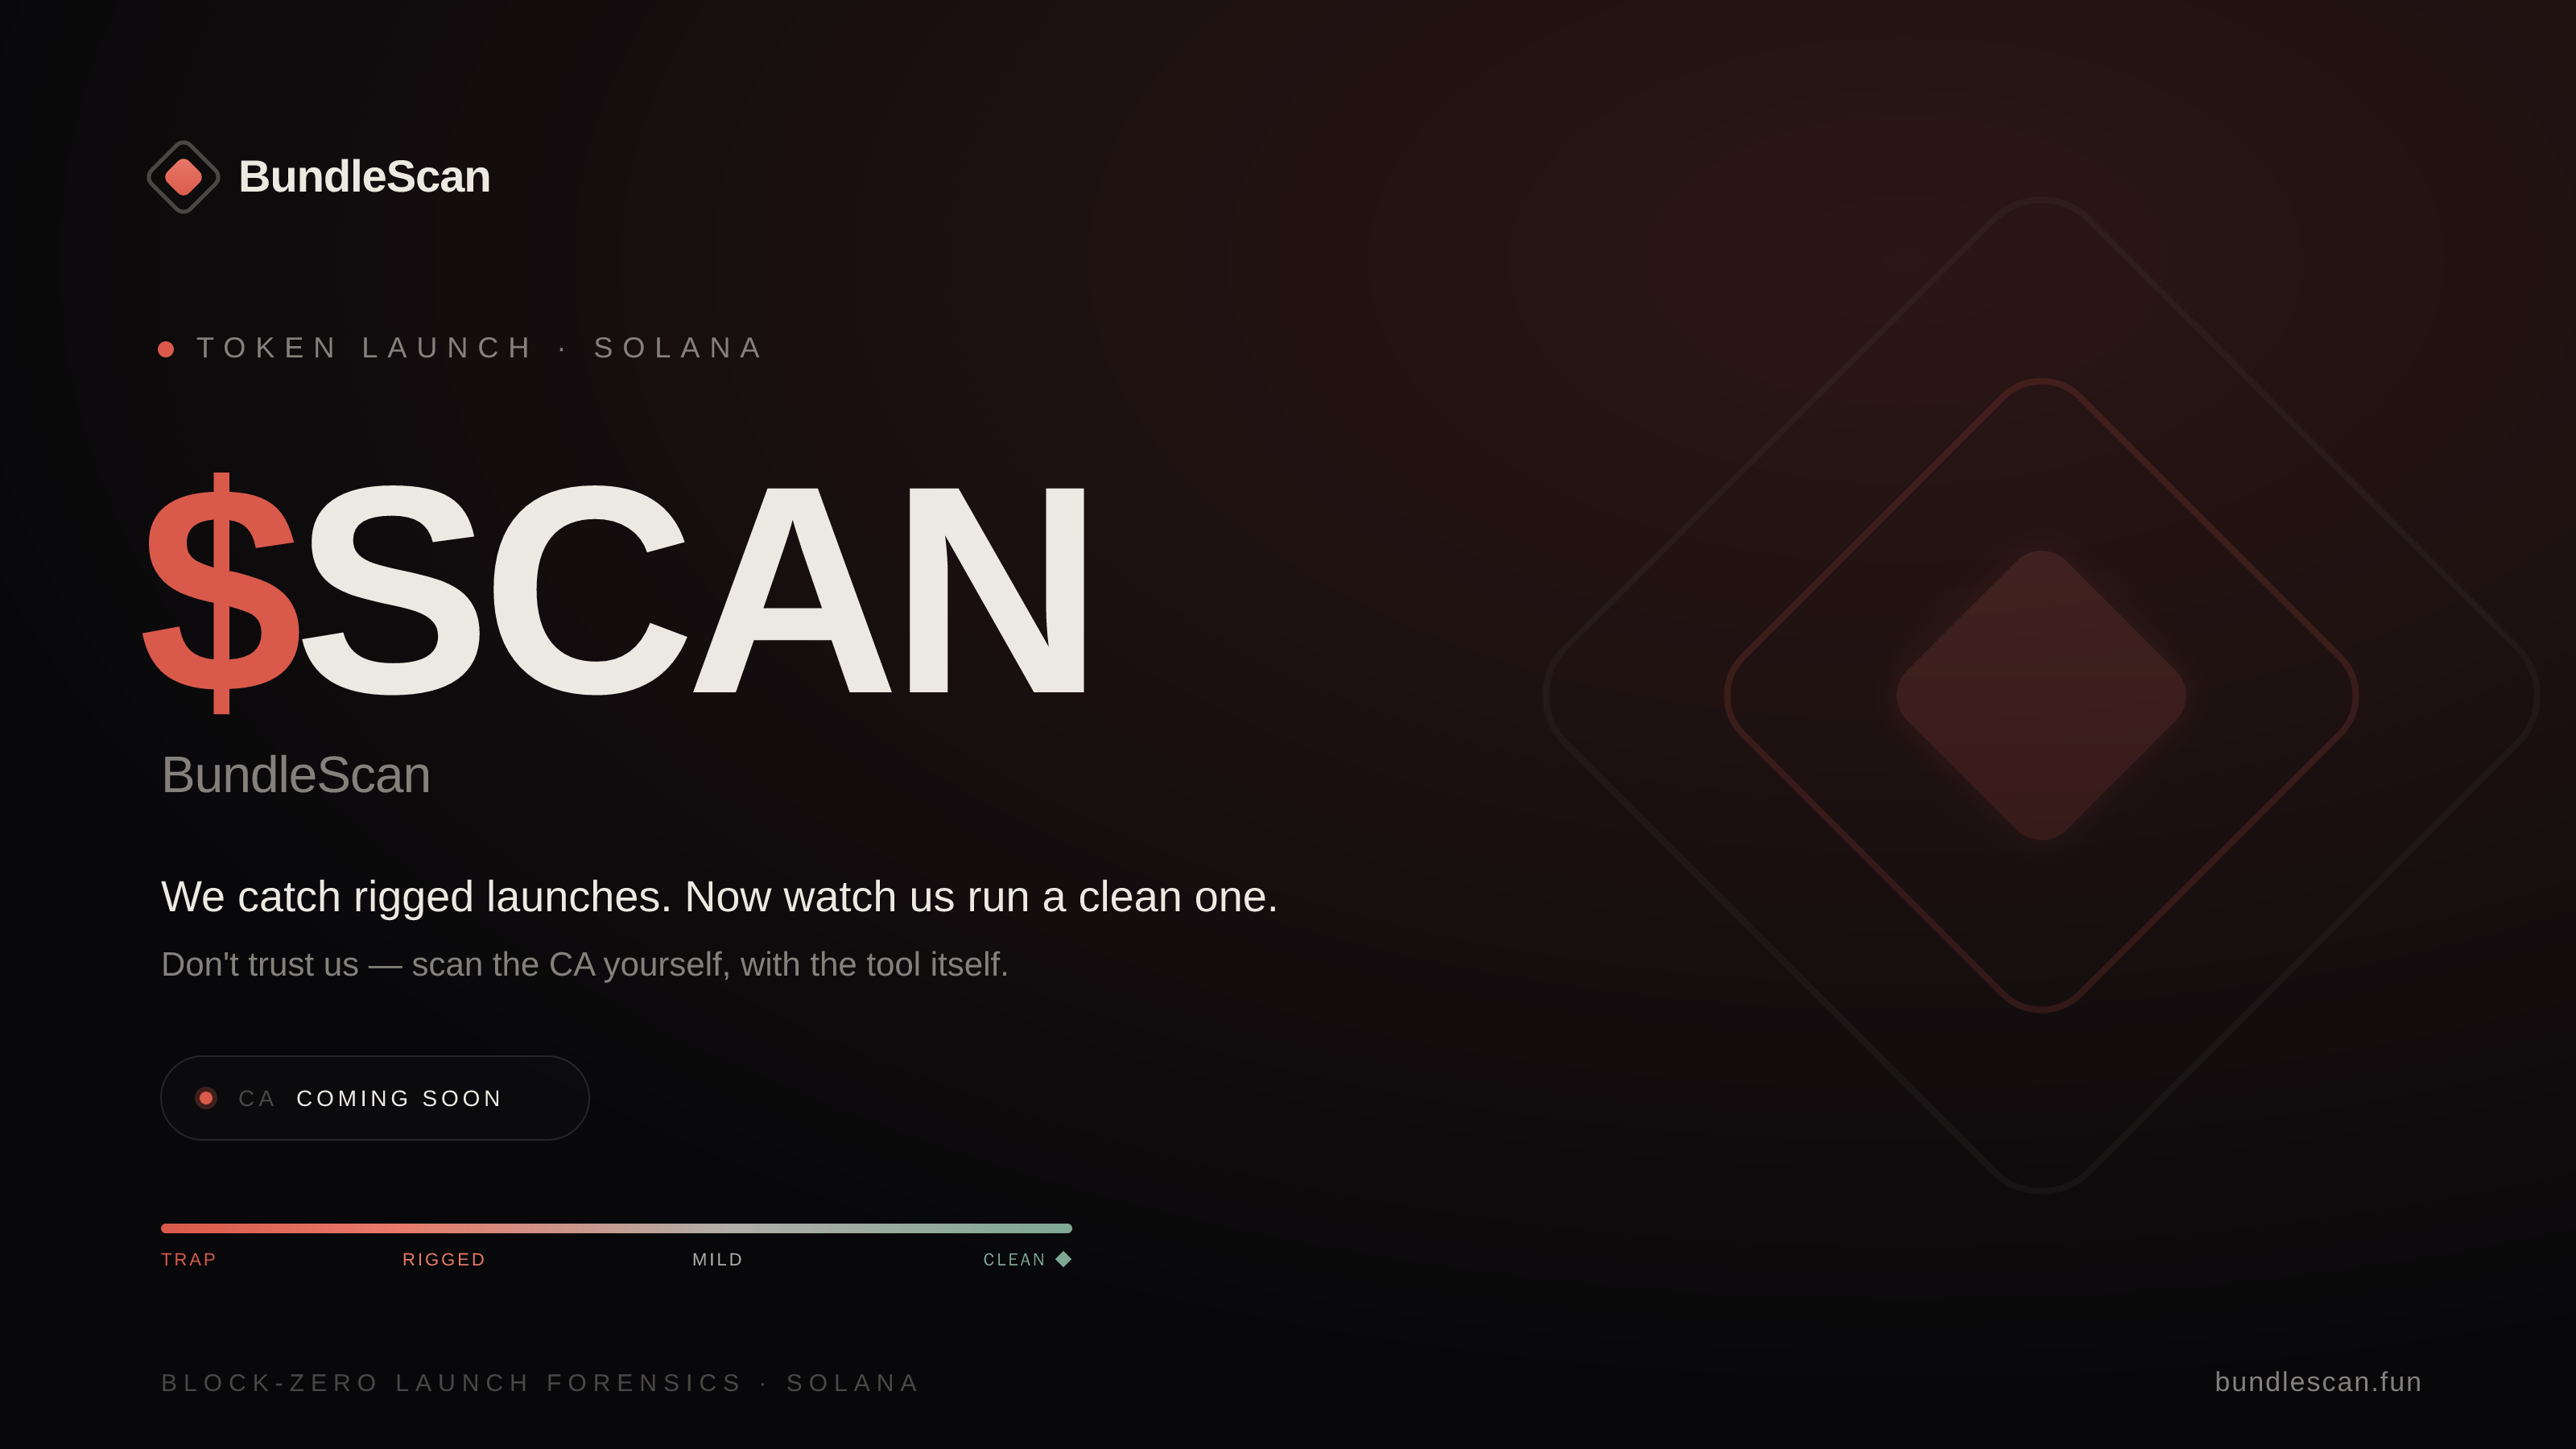
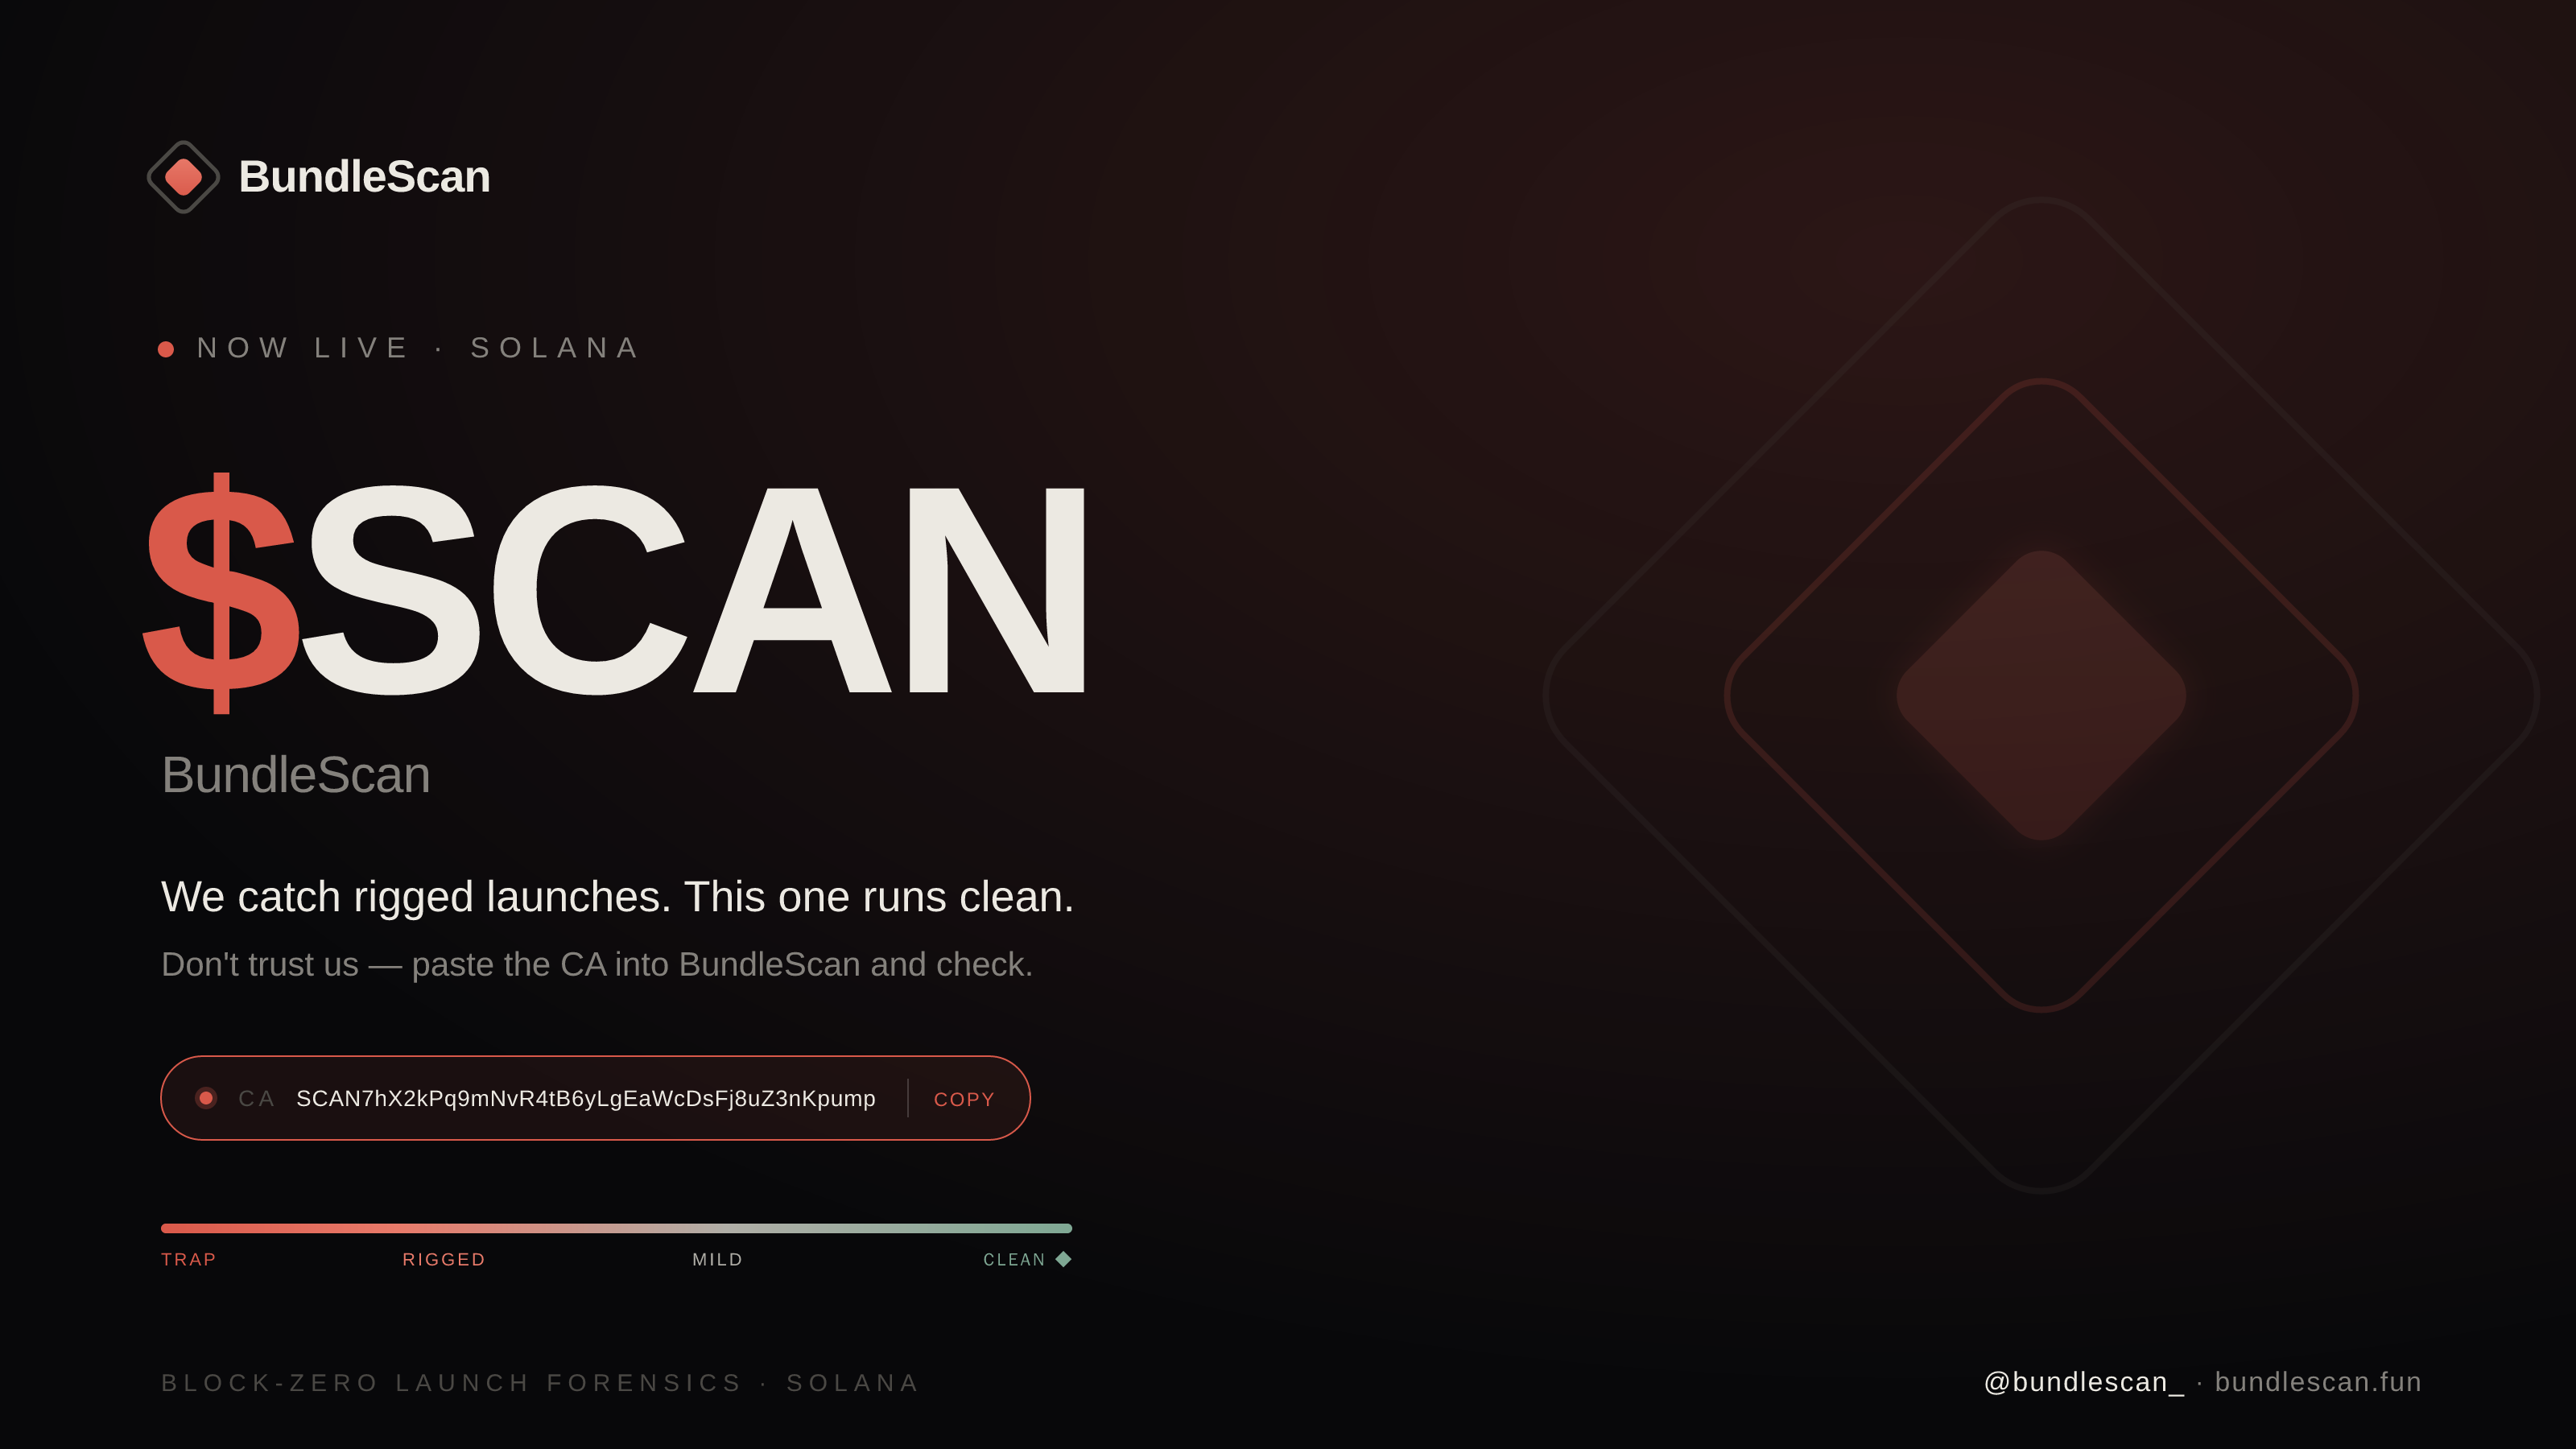
Flip token state to live ($SCAN placeholder CA) + add @user_ X link
- ScanExperience.tsx: TOKEN_CA set to a clearly-marked PLACEHOLDER mint so the
  live hero pill (click-to-copy CA) can be previewed. Replace with the real mint
  before deploying.
- Sections.tsx: X / @user_ link added to the footer.
- banner-launch.svg: NOW LIVE state — CA pill shows the address + COPY, and
  @user_ added to the bottom bar.
- copy.txt: confirmed handle @user_.

diff --git a/src/components/ScanExperience.tsx b/src/components/ScanExperience.tsx
@@ -7,10 +7,11 @@ import type { ScanResult } from "@/lib/types";
 const SAMPLE_CA = "7xKpVeR4nQ2mL8sD3wYt…9fQa";
 
 // ── Token contract address ─────────────────────────────────────────────────
-// Pre-launch teaser. Leave null to show the "CA · COMING SOON" pill. At launch,
-// set this to the real Solana mint and the pill turns into a click-to-copy CA
-// automatically — no other changes needed.
-const TOKEN_CA: string | null = null;
+// Set to the real Solana mint at launch; set back to null to show the
+// "CA · COMING SOON" pill again. The pill auto-switches to click-to-copy.
+// ⚠ PLACEHOLDER below so the live state can be previewed — REPLACE with the
+//   real mint before deploying. Do not ship this fake address.
+const TOKEN_CA: string | null = "SCAN7hX2kPq9mNvR4tB6yLgEaWcDsFj8uZ3nKpump";
 const LOAD_MSGS = [
   "Pulling deploy transaction…",
   "Replaying blocks 0–12…",

diff --git a/src/components/Sections.tsx b/src/components/Sections.tsx
@@ -143,6 +143,9 @@ export function Footer() {
             <a href="#top">Scan</a>
             <a href="#caps">Capabilities</a>
             <a href="#access">Access</a>
+            <a href="https://x.com/bundlescan_" target="_blank" rel="noreferrer">
+              X ↗
+            </a>
           </div>
         </div>
         <div className="disclaimer">